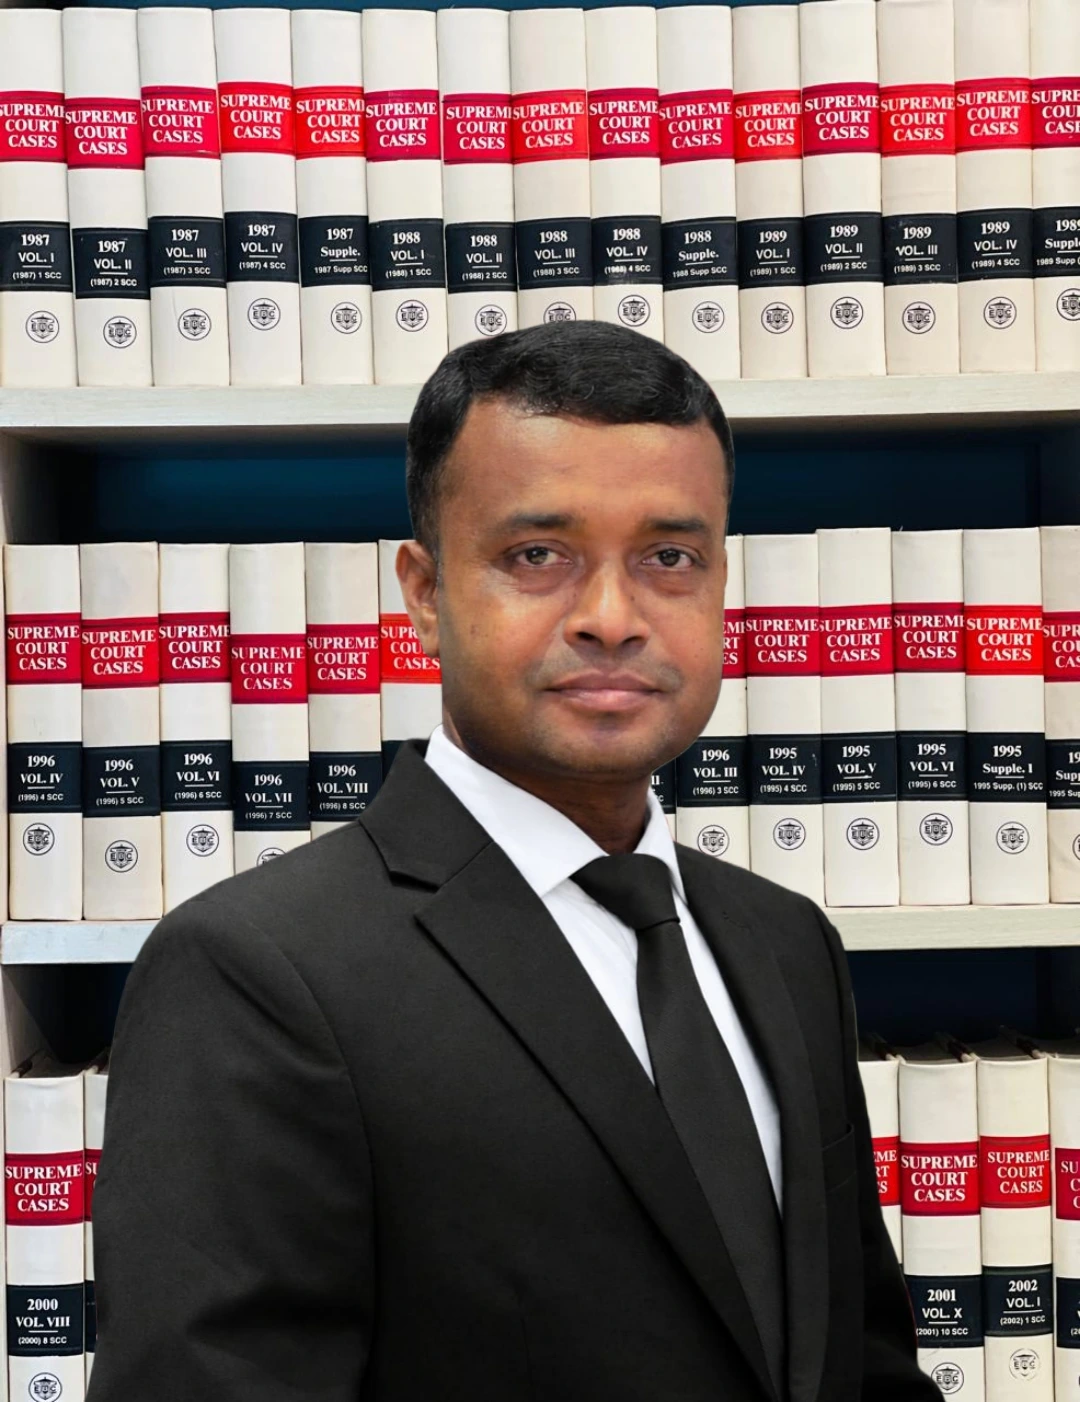
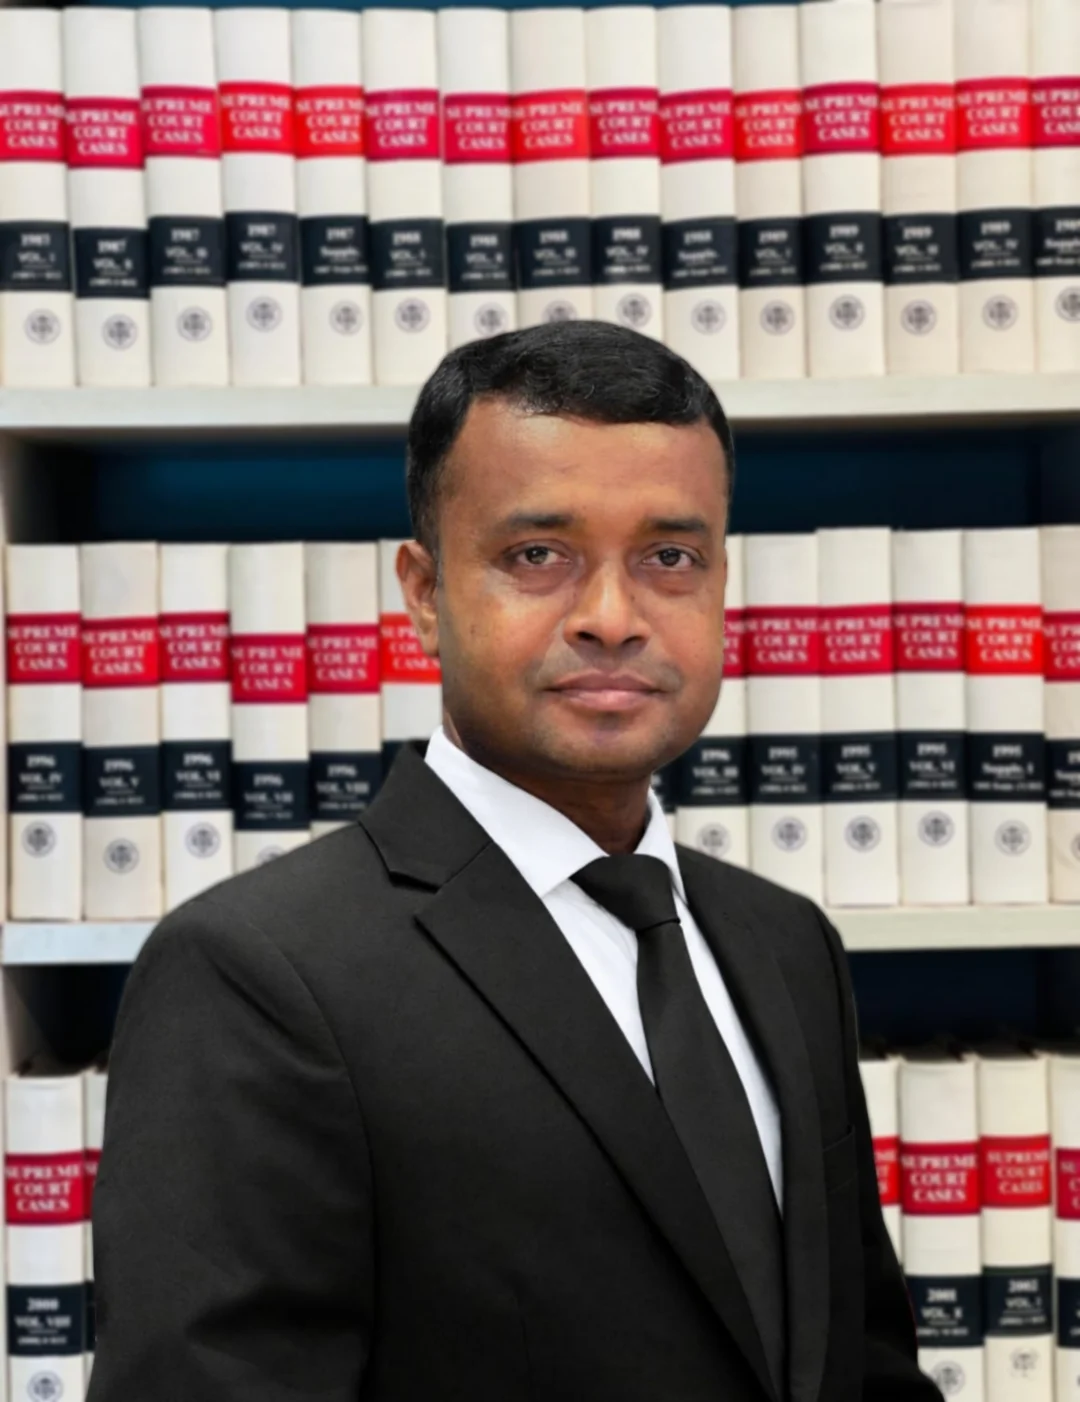
added

diff --git a/client/components/team/TeamRoster.tsx b/client/components/team/TeamRoster.tsx
@@ -338,7 +338,7 @@ export default function TeamRoster() {
         <div
           aria-hidden
           className={[
-            "absolute bottom-8 right-6 md:right-10 z-20 hidden sm:flex flex-col items-center gap-3 text-charcoal/50 transition-opacity duration-500",
+            "absolute bottom-8 right-6 md:right-3 z-20 hidden sm:flex flex-col items-center gap-3 text-charcoal/50 transition-opacity duration-500",
             isLastRow ? "opacity-0 pointer-events-none" : "opacity-100",
           ].join(" ")}
         >

diff --git a/client/app/insights/page.tsx b/client/app/insights/page.tsx
@@ -7,7 +7,7 @@ import Link from "next/link";
 import Image from "next/image";
 import { ArrowUpRight } from "lucide-react";
 import insights from "@/data/insights.json";
-import img1 from "../../public/images/Picsart_26-10-04_17-46-50-856.jpg.jpeg";
+import img1 from "../../public/images/image1.jpeg";
 
 function InsightsContent() {
   const router = useRouter();
